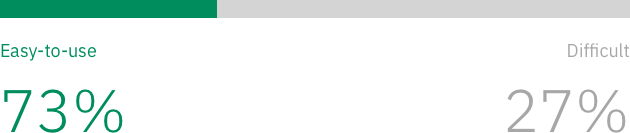
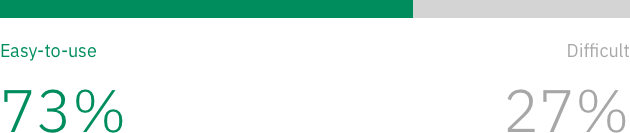
Round of minor changes.

Changed region(s): [[0.3317, 0.0, 0.6635, 0.1504]]

diff --git a/_includes/render_sections.html b/_includes/render_sections.html
@@ -91,6 +91,22 @@
 			</div>
 		</div>
 		<hr />
+		<div class="columns">
+			<div class="column column-a">
+			    <h3>Geographic areas served</h3>
+			</div>
+			<div class="column column-b">
+				<ul>
+					<li>MENA</li>
+					<li>SE Asia</li>
+					<li>East Africa</li>
+					<li>Latin America</li>
+					<li>Europe</li>
+					<li>North America</li>
+				</ul>
+			</div>
+		</div>
+		<hr />
 		{% 
       include media_image.html 
       image="//images.ctfassets.net/g118h5yoccvd/67vb69QGicSWkGwEiagMoe/5d34cacac2da95d8f50e673f96bf8a39/Full_Size_Check_Con_2.jpg"
@@ -101,7 +117,7 @@
 			    <h3>Timeline</h3>
 			</div>
 			<div class="column column-b">
-				<p>Ten years into Meedan we have found ourselves for a second time in the organization five years ahead of history.</p>
+				<p>We are humbled by these quotes from our partners about using Meedan’s tools in 2017.</p>
 			</div>
 		</div>
 		<div class="events">
@@ -201,10 +217,26 @@
 				<div class="intro">
 					<p>Check combines smart checklists, workflow integrations, and intuitive design to make digital newsgathering an efficient and collaborative process. Invite your team and online community in a secure environment to work together to validate breaking news content. Then, quickly show the work to your audience on social media or your news site.</p>
 				</div>
+				<hr />
+		<div class="columns">
+			<div class="column column-a">
+			    <h3>Geographic areas served</h3>
+			</div>
+			<div class="column column-b">
+				<ul>
+					<li>MENA</li>
+					<li>SE Asia</li>
+					<li>East Africa</li>
+					<li>Latin America</li>
+					<li>Europe</li>
+					<li>North America</li>
+				</ul>
+			</div>
+		</div>
 				<div class="stats">
 					{%
 						include module_graphic.html
-						url="//images.ctfassets.net/g118h5yoccvd/74zB3elofCcOCe2mkuMOCg/bc91f6d10d321e125a4cfa40b5ddb24c/graph_stats.png"
+						url="//images.ctfassets.net/g118h5yoccvd/74zB3elofCcOCe2mkuMOCg/b4d041a2df10a74cc2753f6bb6a8f832/graph_stats_check.png"
 						title="Check ease of use graph"
 					%}
 					<div class="note">73% of our users think it’s easy to use Check and 27% think Check is difficult to use.</div>					
@@ -238,7 +270,7 @@
 			</div>
 			<div class="column column-b">
 				<div class="intro">
-					<p>Keep works as a backup platform for links added online. If a media item is added to Check with a link, with Keep enabled, a copy of the video is added to Keep so that there is always a backup link in case that the original goes down or gets removed at any point in time.</p>
+					<p>Keep works as a backup platform for links added online. If a media item is added to Check with a link, with Keep enabled, a copy of the link is added to Keep so that there is always a backup link in case that the original goes down or gets removed at any point in time.</p>
 				</div>
 				<div class="stats">
 					{%
@@ -284,6 +316,12 @@
 					<p>Bridge helps communities translate, annotate, share, and source the most compelling global content on social media. Starting with a pilot with the National Geographic Society and Pulitzer Prize-winning journalist Paul Salopek’s Out of Eden Walk project, the product aims to support a team of translators with tools like glossaries and translation memories.</p>
 				</div>
 				<div class="stats">
+					{%
+						include module_graphic.html
+						url="//images.ctfassets.net/g118h5yoccvd/2SlNyULm1qOQQCUIayisoG/879470a6e78d5f11166597edd3dacfff/graph_stats_bridge.png"
+						title="Bridge ease of use graph"
+					%}
+					<div class="note">70% of users think it’s easy to use Bridge and 30% think it is very easy.</div>
 					{%
 	              include stat.html
 	              label="Translations requested"
@@ -417,18 +455,18 @@
 					{%
 	              include stat.html
 	              label="Contributions and Grants"
-	              number="793K"
+	              number="793,499"
 	        %}
 	        {%
 	              include stat.html
 	              label="Program service revenue"
-	              number="435K"
+	              number="435,720"
 	        %}
 
 	        {%
 	              include stat.html
 	              label="Total revenue"
-	              number="1.2M"
+	              number="1,229,326"
 	        %}
       	</div>
 			</div>
@@ -446,7 +484,7 @@
 					{%
 	              include stat.html
 	              label="Total expenditures"
-	              number="1.4M"
+	              number="1,461,661"
 	        %}
       	</div>
 			</div>
